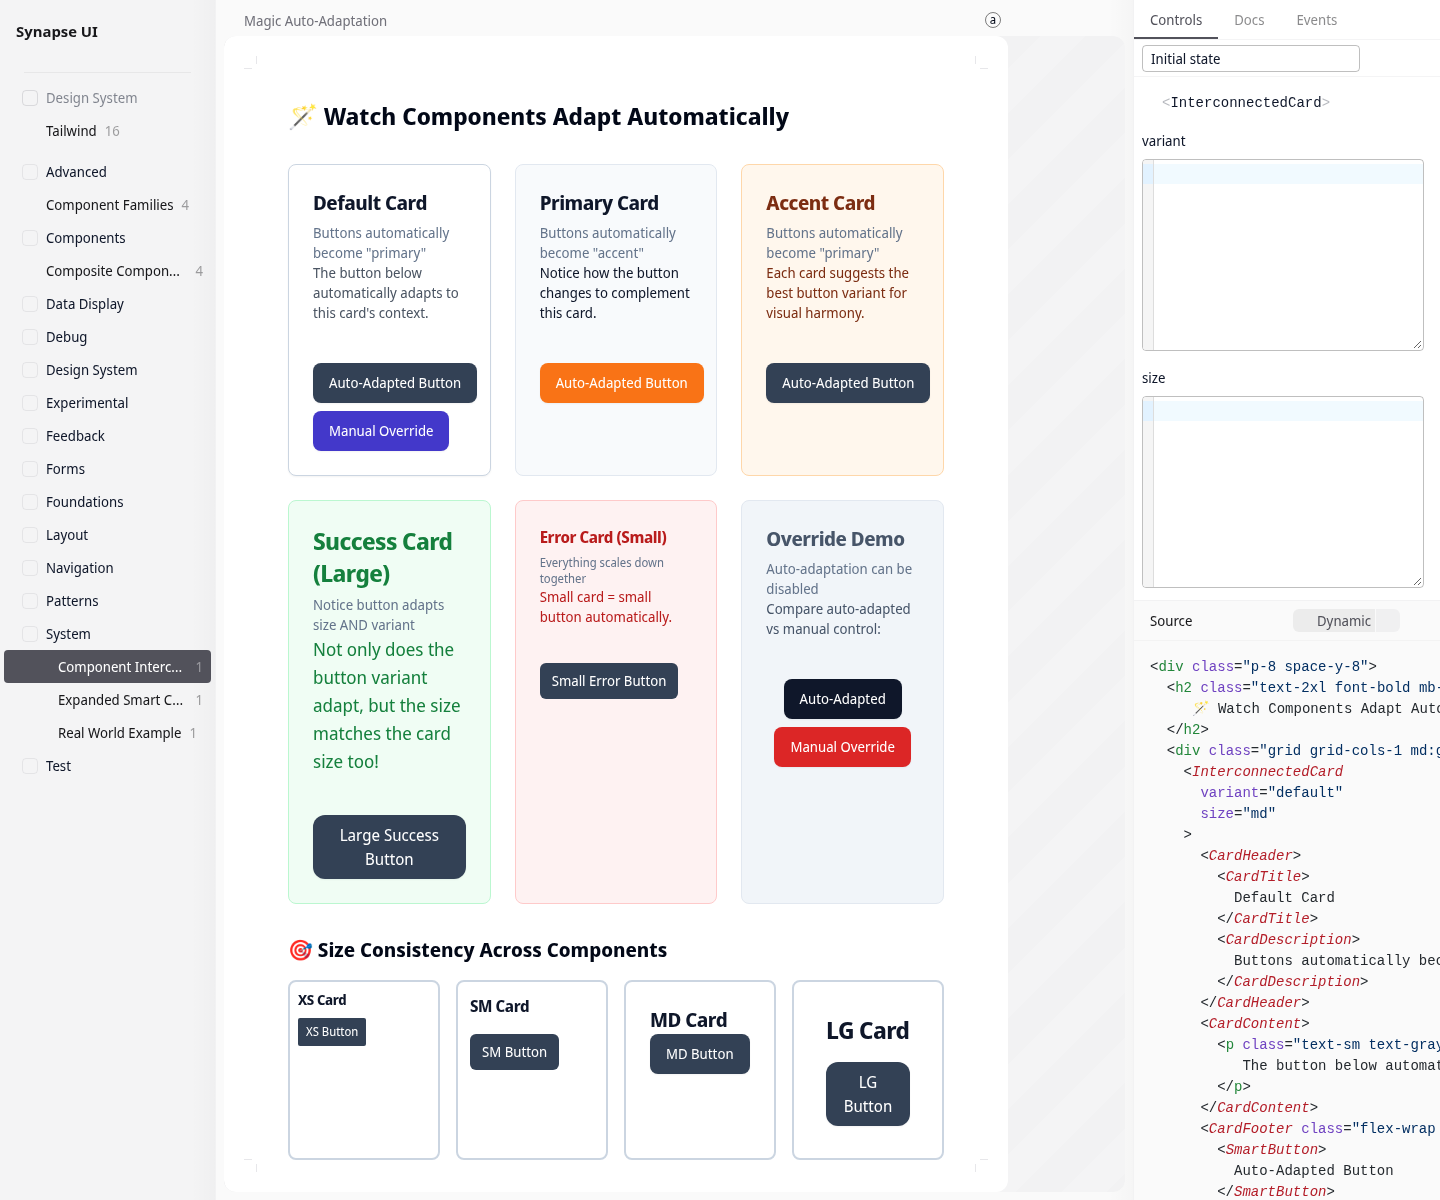
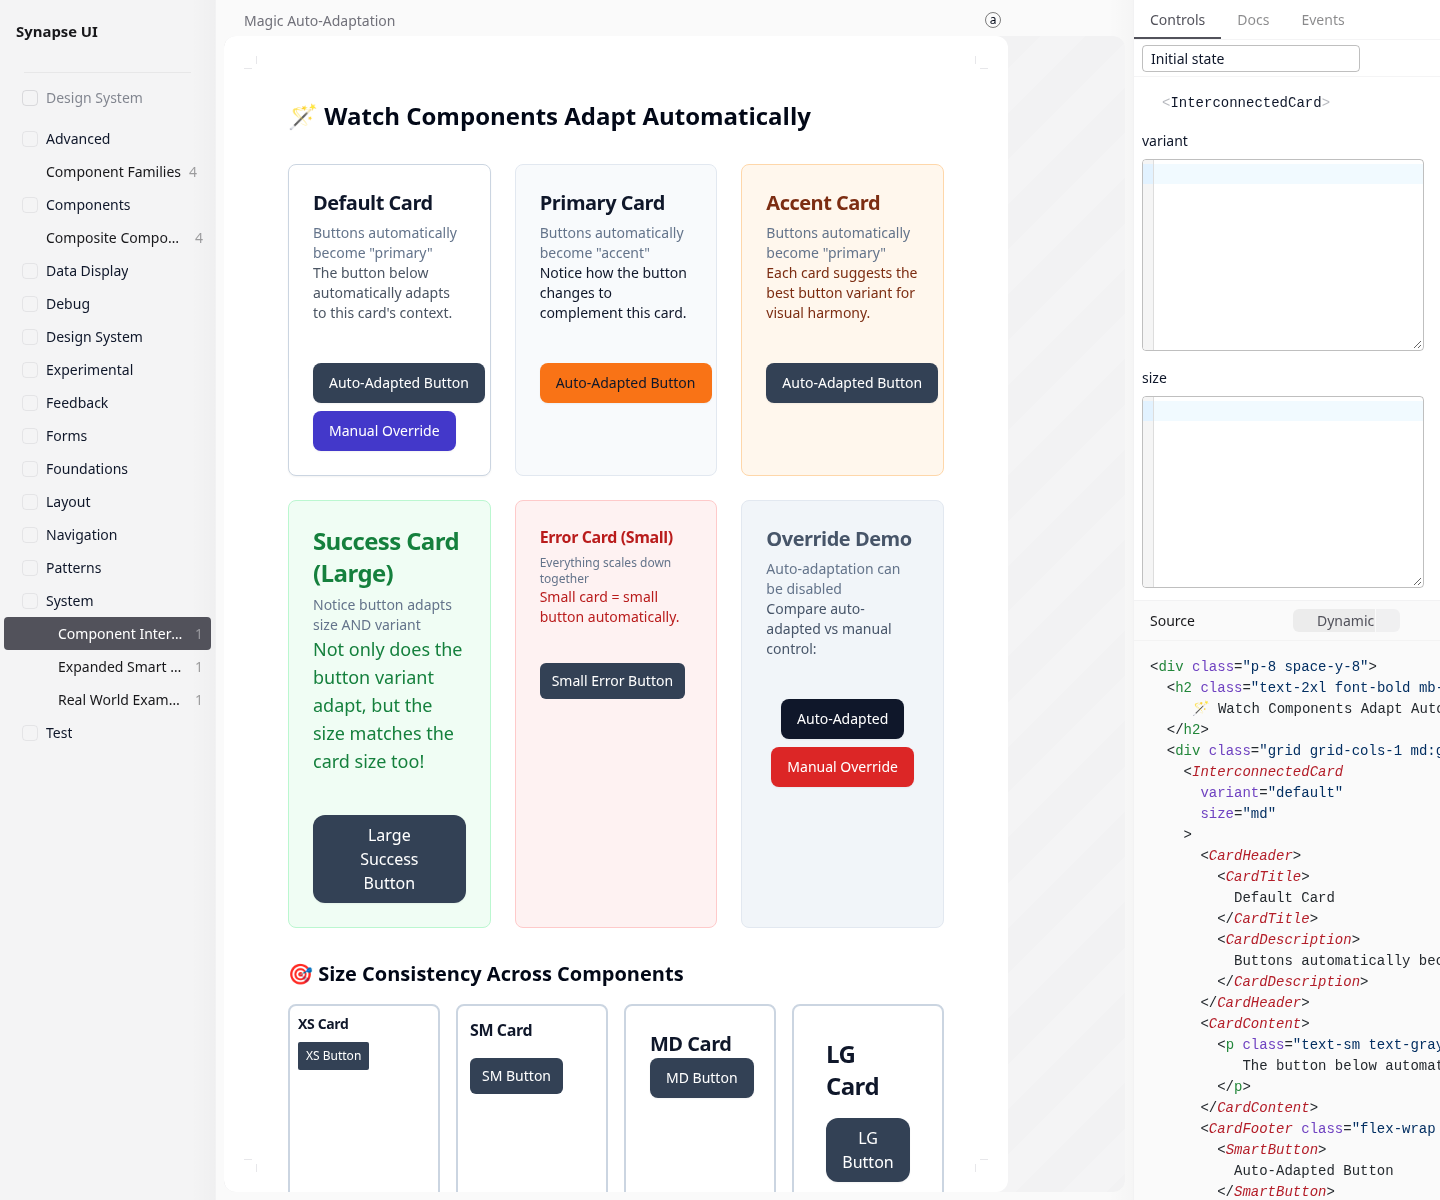
Preserve Histoire shell scope on Firefox 140 and compare exact pinned typography; verify physical input readiness

diff --git a/scripts/browser-typography-compat.ts b/scripts/browser-typography-compat.ts
@@ -1,0 +1,46 @@
+import assert from 'node:assert/strict'
+import { mkdir,writeFile } from 'node:fs/promises'
+import { chromium,firefox,webkit } from 'playwright'
+const current=process.env.FOUNDATIONS_BASE_URL ?? 'http://localhost:6006'
+const reference=process.env.TYPOGRAPHY_REFERENCE_URL ?? 'http://localhost:6007'
+const out='test-results/typography'
+await mkdir(out,{recursive:true})
+const results=[]
+for (const [engine,type] of Object.entries({chromium,firefox,webkit})) {
+  const browser=await type.launch(engine==='chromium' && process.env.CHROMIUM_PATH ? {executablePath:process.env.CHROMIUM_PATH}: {})
+  try {
+    for (const [index,title] of [[1,'Main Variants'],[4,'All Sizes']] as const) {
+      const pair=[]
+      for (const [name,base] of [['480a904',reference],['current',current]]) {
+        const page=await browser.newPage({viewport:{width:1280,height:720},reducedMotion:'reduce'})
+        await page.goto(`${base}/story/src-stories-button-story-vue?variantId=src-stories-button-story-vue-${index}`)
+        const item=page.locator('.histoire-story-variant-grid-item').filter({has:page.getByRole('link',{name:title,exact:true})})
+        await item.getByRole('button').first().waitFor()
+        await page.evaluate(()=>document.fonts.ready)
+        const computed=await item.getByRole('button').evaluateAll(nodes=>nodes.map(node=>{
+          const s=getComputedStyle(node)
+          return {label:node.textContent?.trim(),fontFamily:s.fontFamily,fontWeight:s.fontWeight,fontSize:s.fontSize,lineHeight:s.lineHeight,fontSynthesis:s.fontSynthesis,boxSizing:s.boxSizing,width:s.width,height:s.height}
+        }))
+        const faces=await page.evaluate(()=>[...document.fonts].map(face=>({family:face.family,status:face.status,weight:face.weight})))
+        let glyphs:unknown=null
+        if(engine==='chromium') {
+          const cdp=await page.context().newCDPSession(page)
+          await cdp.send('DOM.enable');await cdp.send('CSS.enable')
+          const {root}=await cdp.send('DOM.getDocument')
+          const {nodeId}=await cdp.send('DOM.querySelector',{nodeId:root.nodeId,selector:'.histoire-story-variant-grid-item .synapse-button .button-content'})
+          glyphs=await cdp.send('CSS.getPlatformFontsForNode',{nodeId})
+          await cdp.detach()
+        }
+        const styles=await page.evaluate(()=>[...document.styleSheets].map(sheet=>({href:sheet.href,rules: (()=>{try{return [...sheet.cssRules].filter(rule=>rule.cssText.includes('font-family')).map(rule=>rule.cssText.slice(0,1000))}catch{return ['unreadable external sheet']}})()})))
+        await item.screenshot({path:`${out}/${engine}-${name}-${index}.png`,animations:'disabled'})
+        pair.push({name,computed,faces,glyphs,styles})
+        await page.close()
+      }
+      results.push({engine,title,pair})
+      await writeFile(`${out}/computed.json`,JSON.stringify(results,null,2))
+      assert.deepEqual(pair[1].computed,pair[0].computed,`${engine} ${title}: preserve exact retained typography and geometry`)
+      if(engine==='chromium')assert.deepEqual(pair[1].glyphs,pair[0].glyphs,'Preserve actual font shaping source')
+      console.log('PINNED_TYPOGRAPHY',JSON.stringify({engine,title,computed:pair[1].computed,glyphs:pair[1].glyphs}))
+    }
+  } finally {await browser.close()}
+}

diff --git a/scripts/browser-semantic-components.ts b/scripts/browser-semantic-components.ts
@@ -14,6 +14,8 @@ try {
   const errors: string[] = []
   page.on('pageerror', e => errors.push(e.message))
   await page.goto(base + route)
+  await page.locator('.histoire-generic-render-story > [data-v-app]').waitFor({state:'attached'})
+  await expect(page.locator('.histoire-base-split-pane').first()).toHaveCSS('display','flex')
   const heading = page.getByRole('heading', { name: 'Primary Card', exact: true })
   await expect(heading).toBeVisible()
   const storyCard = heading.locator('xpath=ancestor::div[contains(@class,"max-w-md")]')
@@ -46,6 +48,13 @@ try {
     api.mount()
     return api.tokens as Record<string, Record<number, string>>
   }, moduleURL)
+  const isolation = await page.evaluate(() => {
+    const probe=document.createElement('div');probe.className='htw-flex'
+    document.body.append(probe);const shell=getComputedStyle(probe).display
+    document.querySelector('#semantic-probe')!.append(probe);const story=getComputedStyle(probe).display
+    probe.remove();return {shell,story}
+  })
+  assert.deepEqual(isolation,{shell:'flex',story:'block'},'Shell utilities must work without crossing the preview scope boundary')
   const update = (patch: Record<string, unknown>) => page.evaluate(async ({ url, patch }) => {
     await (await import(url)).setState(patch)
   }, { url: moduleURL, patch })
@@ -141,6 +150,6 @@ try {
   await expect(button).toBeDisabled()
   await expect(button.locator('.loading-spinner')).toBeVisible()
   assert.deepEqual(errors,[])
-  await writeFile(`${out}/computed-states.json`,JSON.stringify({route,tokens,results,sizes:10,reactiveContext:true,manualOverride:true,errors},null,2))
-  console.log('SEMANTIC_COMPONENTS',JSON.stringify({buttonVariants:cases.length,cardVariants:11,sizes:10,states:['normal','hover','focus','disabled'],reactiveContext:true,errors}))
+  await writeFile(`${out}/computed-states.json`,JSON.stringify({route,tokens,isolation,results,sizes:10,reactiveContext:true,manualOverride:true,errors},null,2))
+  console.log('SEMANTIC_COMPONENTS',JSON.stringify({buttonVariants:cases.length,cardVariants:11,sizes:10,states:['normal','hover','focus','disabled'],backdrops:2,contrast:results.filter((item): item is {variant:string;backdrop:string;observed:Record<string,{contrast:number}>} => typeof item==='object' && item!==null && 'variant' in item).map(item=>({variant:item.variant,backdrop:item.backdrop,ratios:Object.fromEntries(Object.entries(item.observed).filter(([state])=>state!=='disabled').map(([state,value])=>[state,value.contrast]))})),reactiveContext:true,errors}))
 } finally { await browser.close() }

diff --git a/tests/e2e/drag-drop.spec.ts b/tests/e2e/drag-drop.spec.ts
@@ -7,7 +7,10 @@ async function box(locator: Locator) {
   return result!
 }
 async function start(page: Page, main: Locator) {
-  const handle = await box(main.getByRole('button', { name: 'Drag dock', exact: true }))
+  const target = main.getByRole('button', { name: 'Drag dock', exact: true })
+  await target.scrollIntoViewIfNeeded()
+  await expect(target).toBeInViewport()
+  const handle = await box(target)
   const point = { x: handle.x + handle.width / 2, y: handle.y + handle.height / 2 }
   console.log('DOCK_INPUT_GEOMETRY', JSON.stringify(await main.evaluate((el, point) => {
     const rect = (node: Element | null) => node?.getBoundingClientRect().toJSON()
@@ -63,12 +66,12 @@ test.describe('Drag and Drop Functionality', () => {
 
   test('should allow dragging the floating dock', async ({ page }) => {
     const main = await openDock(page)
+    const p = await start(page, main)
     const initial = await box(main.locator('.floating-dock'))
     const stage = await box(main.getByRole('region', { name: 'Dock workspace' }))
     const dx = Math.min(70, stage.x + stage.width - initial.x - initial.width)
     const dy = Math.min(35, stage.y + stage.height - initial.y - initial.height)
     expect(dx).toBeGreaterThan(10)
-    const p = await start(page, main)
     await page.mouse.move(p.x + 70, p.y + 35, { steps: 5 })
     await expect.poll(async () => Math.abs((await box(main.locator('.floating-dock'))).x - initial.x - dx)).toBeLessThanOrEqual(1)
     await expect.poll(async () => Math.abs((await box(main.locator('.floating-dock'))).y - initial.y - dy)).toBeLessThanOrEqual(1)
@@ -144,8 +147,8 @@ test.describe('Drag and Drop Functionality', () => {
 
   test('should handle rapid drag movements', async ({ page }) => {
     const main = await openDock(page)
-    const initial = await box(main.locator('.floating-dock'))
     const p = await start(page, main)
+    const initial = await box(main.locator('.floating-dock'))
     const stage = await box(main.getByRole('region', { name: 'Dock workspace' }))
     const dx = Math.min(80, stage.x + stage.width - initial.x - initial.width)
     expect(dx).toBeGreaterThan(10)

diff --git a/scripts/histoire-css-compat.ts b/scripts/histoire-css-compat.ts
@@ -1,0 +1,48 @@
+import assert from 'node:assert/strict'
+import postcss from 'postcss'
+import selectorParser from 'postcss-selector-parser'
+import type { Plugin } from 'vite'
+
+const boundary = '.__histoire-render-story:not(.__histoire-render-custom-controls)'
+const guard = selectorParser().astSync(`:where(:not(${boundary}, ${boundary} *))`).first!.first!
+
+/** Lower only Histoire beta's single shell scope for pinned Firefox 140.
+ * Keep its preview boundary and selector specificity; never touch consumer CSS.
+ */
+export function lowerHistoireScope(css: string) {
+  const root = postcss.parse(css)
+  let scopes = 0
+  root.walkAtRules('scope', scope => {
+    assert.equal(scope.params, `(:root) to (${boundary})`, 'Review changed upstream Histoire scope before lowering')
+    scopes++
+    scope.walkRules(rule => {
+      if (rule.parent?.type === 'atrule' && /keyframes$/.test(rule.parent.name)) return
+      rule.selector = selectorParser(selectors => {
+        selectors.walkPseudos(pseudo => {
+          if (pseudo.value === ':scope') pseudo.value = ':root'
+        })
+        selectors.each(selector => {
+          // Match guards belong to the element, before any pseudo-element.
+          const pseudoElement = selector.nodes.find(node => node.type === 'pseudo' && (node.value.startsWith('::') || [':before',':after',':first-line',':first-letter'].includes(node.value)))
+          if (pseudoElement) selector.insertBefore(pseudoElement,guard.clone())
+          else selector.append(guard.clone())
+        })
+      }).processSync(rule.selector)
+    })
+    assert(scope.nodes,'Scope must contain the upstream stylesheet')
+    scope.replaceWith(...scope.nodes)
+  })
+  assert.equal(scopes,1,'Expected exactly the reviewed Histoire shell scope')
+  return root.toString()
+}
+
+export function histoireCssCompatibility(): Plugin {
+  return {
+    name:'synapse-histoire-shell-css-compatibility',
+    enforce:'pre',
+    transform(code,id) {
+      if (!id.split('?')[0].replaceAll('\\','/').endsWith('/@histoire/app/dist/style.css')) return
+      return {code:lowerHistoireScope(code),map:null}
+    },
+  }
+}

diff --git a/scripts/font-probe.ts b/scripts/font-probe.ts
@@ -65,7 +65,6 @@ export function observeFonts(page: Page): (sansSelector: string, monoSelector: s
       const failures = settled.filter(item => 'error' in item)
       // Preserve request diagnostics; Histoire also downloads shell fonts, which are
       // not evidence for Geist. Required font body failures remain hard failures.
-      if (failures.length) console.log('FONT_RESPONSE_FAILURES', JSON.stringify(failures))
       const requiredFailures = failures.filter(item => /Geist(?:Mono)?-Variable(?:-[^/]*)?\.woff2$/.test(item.path))
       assert.deepEqual(requiredFailures, [], 'Required Geist response body unavailable')
       const resources = settled.flatMap(item => 'resource' in item ? [item.resource] : [])
@@ -93,6 +92,10 @@ export function observeFonts(page: Page): (sansSelector: string, monoSelector: s
         }
       } finally { await session.detach() }
       return { faces, resources: resources.filter(item => expectedFonts.some(font => font.sha256 === item.sha256)).map(({ path, status, bytes, signature, sha256 }) => ({ path, status, bytes, signature, sha256, selfHosted: true })), rendered }
-    } finally { page.off('response', onResponse); await Promise.all(downloads) }
+    } finally {
+      page.off('response', onResponse)
+      const failures = (await Promise.all(downloads)).filter(item => 'error' in item)
+      if (failures.length) console.log('FONT_RESPONSE_FAILURES', JSON.stringify(failures))
+    }
   }
 }

diff --git a/scripts/test-font-observation.ts b/scripts/test-font-observation.ts
@@ -1,0 +1,20 @@
+import assert from 'node:assert/strict'
+import { readFile } from 'node:fs/promises'
+import { chromium } from 'playwright'
+import { observeFonts } from './font-probe.ts'
+
+// A redirect response has no readable CDP body. Exercise that lifecycle with
+// an actual browser, then prove invalid required-font evidence still rejects.
+const base = process.env.FOUNDATIONS_BASE_URL ?? 'http://localhost:6006'
+const browser = await chromium.launch({ executablePath: process.env.CHROMIUM_PATH || undefined })
+try {
+  const page = await browser.newPage()
+  await page.route('**/Geist-Variable.woff2', route => route.fulfill({ status: 302, headers: { location: `${base}/font-probe-redirect.woff2` } }))
+  await page.route('**/font-probe-redirect.woff2', async route => route.fulfill({ status: 200, contentType: 'font/woff2', body: await readFile('src/assets/fonts/Geist-Variable.woff2') }))
+  const verify = observeFonts(page)
+  await page.goto(`${base}/story/src-stories-lumfoundations-story-vue?variantId=src-stories-lumfoundations-story-vue-0`, { waitUntil:'networkidle' })
+  await page.locator('main[data-synapse-theme="light"]').waitFor()
+  await assert.rejects(verify('main h1','main pre code'), /Required Geist response body unavailable|NetworkError/)
+  await page.close()
+  console.log('Font observation settles redirected required-font failure, rejects invalid evidence')
+} finally { await browser.close() }

diff --git a/scripts/test-histoire-css-compat.ts b/scripts/test-histoire-css-compat.ts
@@ -1,0 +1,20 @@
+import assert from 'node:assert/strict'
+import { readFileSync } from 'node:fs'
+import { createRequire } from 'node:module'
+import { dirname,join } from 'node:path'
+import postcss from 'postcss'
+import { lowerHistoireScope } from './histoire-css-compat.ts'
+
+const appRequire = createRequire(createRequire(import.meta.url).resolve('histoire/package.json'))
+const app = dirname(appRequire.resolve('@histoire/app/package.json'))
+const source = readFileSync(join(app,'dist/style.css'),'utf8')
+const result = postcss.parse(lowerHistoireScope(source))
+let rules = 0
+result.walkRules(rule => {
+  if (rule.parent?.type === 'atrule' && /keyframes$/.test(rule.parent.name)) return
+  assert(rule.selector.includes(':where(:not(.__histoire-render-story'),rule.selector)
+  rules++
+})
+assert(rules>100,'Exercise actual upstream stylesheet, not a hollow synthetic sample')
+assert.throws(()=>lowerHistoireScope('@scope (.changed) { .a { color:red } }'),/Review changed upstream/)
+console.log(`Lowered actual Histoire shell scope: ${rules} guarded rules, keyframes retained, changed upstream scope rejects`)

diff --git a/histoire.config.ts b/histoire.config.ts
@@ -1,5 +1,6 @@
 import { defineConfig } from 'histoire'
 import { HstVue } from '@histoire/plugin-vue'
+import { histoireCssCompatibility } from './scripts/histoire-css-compat'
 
 export default defineConfig({
   theme: {
@@ -56,13 +57,16 @@ export default defineConfig({
   autoApplyContrastColor: true,
   // Vite configuration with GSAP/JSDOM compatibility fixes
   vite: {
+    plugins: [histoireCssCompatibility()],
     define: {
       __VUE_PROD_DEVTOOLS__: false,
       // Polyfill for GSAP in Node.js environment
       global: 'globalThis',
     },
     optimizeDeps: {
-      include: ['gsap', 'gsap/Draggable']
+      // Retained stories import these at collection/mount time. Prebundle them
+      // before navigation so Vite does not reload a cold preview mid-mount.
+      include: ['vue', 'pinia', 'reka-ui', '@iconify/vue', 'class-variance-authority', 'tailwind-variants', 'clsx', 'tailwind-merge', 'gsap', 'gsap/Draggable']
     },
     ssr: {
       noExternal: ['gsap']

diff --git a/tests/e2e/helpers/histoire.ts b/tests/e2e/helpers/histoire.ts
@@ -25,6 +25,7 @@ export async function openButtonVariant(page: Page, title: 'Main Variants' | 'Al
 export async function navigateStory(page: Page, group: string, id: string, variant: string) {
   await page.goto('/')
   await expect(page).toHaveTitle('Synapse UI')
+  await expect(page.locator('.histoire-base-split-pane').first()).toHaveCSS('display','flex')
   const mobile = await page.evaluate(() => matchMedia('(max-width: 640px)').matches)
   if (mobile) await page.getByText('Select a story...', { exact: true }).click()
   const link = page.locator(`a[href="/story/${id}"]`)

diff --git a/src/styles/histoire-consumer.css b/src/styles/histoire-consumer.css
@@ -1,5 +1,6 @@
 /* Histoire beta changes its shell to Noto Sans Display. Preserve the retained
-   component consumer's pre-beta Tailwind default, without styling library users. */
+   shell and component consumer's pre-beta Tailwind default, without styling library users. */
+:root,
 .histoire-generic-render-story {
   font-family: ui-sans-serif, system-ui, -apple-system, BlinkMacSystemFont, "Segoe UI", Roboto, "Helvetica Neue", Arial, "Noto Sans", sans-serif, "Apple Color Emoji", "Segoe UI Emoji", "Segoe UI Symbol", "Noto Color Emoji";
 }

diff --git a/docs/design/histoire-beta.md b/docs/design/histoire-beta.md
@@ -5,3 +5,46 @@ Histoire, @histoire/plugin-vue and @histoire/controls move together to 1.0.0-bet
[1 lines of base64/hex data omitted]
 
 Beta retains the upstream unclosed JSDOM lifecycle, so the narrowly versioned window-close/native-decoder patch is ported to beta. The real GSAP/Histoire teardown regression remains enabled and passes on its JSDOM 27 runtime. Logo paths use supported project-relative filesystem paths, preserving the existing SVG bytes and removing false filesystem warnings. Vite 5/esbuild advisory paths disappear. The remaining braces, sprintf-js, Tailwind 3 parser and pinned Playwright installer findings stay documented and nonzero; see dependency-audit.json. No publication, merge, deployment, credentials or infrastructure changes are part of this migration.
+
+
+### Pinned compatibility follow-up
+
+Pinned Firefox 140 does not implement native CSS `@scope`. Beta's distributed
+`@histoire/app/dist/style.css` contains one scope wrapping its entire shell;
+Firefox therefore ignored shell layout. At df1ce741 the dock main began at
+(0,1036), workspace at (32,1249.4), and handle center at (202,1339.9) in a
+1280×720 viewport. The pointer hit list was empty. Explicitly scrolling in
+the boundary test made physical input work; this was not a drag-math failure.
+
+An internal Vite pre-transform now lowers only that reviewed shell scope to
+zero-specificity exclusion guards at the same preview boundary. It retains
+keyframes, pseudo-element positioning, CSS specificity and the custom-controls
+exception, and rejects unknown upstream scope parameters. It does not process
+published styles or arbitrary consumer scopes. A focused regression parses all
+570 actual upstream rules; all five browser navigation tests require a flex shell.
+The drag helper reveals the real handle and measures fresh coordinates before
+physical events; displacement, feedback, bounds and actions remain unchanged.
+
+Beta also changes its root font selector from html to :scope, increasing its
+specificity over the consumer's original Tailwind html preflight. The Histoire-only
+setup now explicitly preserves the original system stack on :root and the story
+canvas. It does not install a new product fallback or override published users
+or the LUM Geist scope. CI compares exact 480a904 and current source in separate
+checkouts on the same three pinned desktop engines, recording font family, weight,
+size, line-height, synthesis, availability, geometry, stylesheet ownership and
+Chromium glyph source, with supplemental screenshots. The accepted 90 comparison
+images and comparison assertions are untouched; no intended differences are accepted.
+
+Cold cloud logs also showed Vite optimizing Vue/reka-ui/tailwind-variants and
+reloading the page during story collection. The supported optimizeDeps include
+list now covers the actual retained source runtime imports, before first navigation.
+No sleep, retry, timeout increase or assertion removal is used.
+
+The repaired observer identified the previous pinned unreadable resources as
+Google Noto Sans Display WOFF2 paths, HTTP 200, no request cancellation or redirect
+reported. Required Geist resources were intact and all hash/FontFace/glyph checks
+passed at df1ce741 (quality run 39402788909). The original log cannot establish
+why CDP lost those response bodies or whether its cache was involved. Immediate
+owned settling handles that failure normally without treating shell font responses
+as Geist evidence. A real-browser redirected-required-font negative control
+continues to reject invalid evidence without an unhandled promise rejection.
